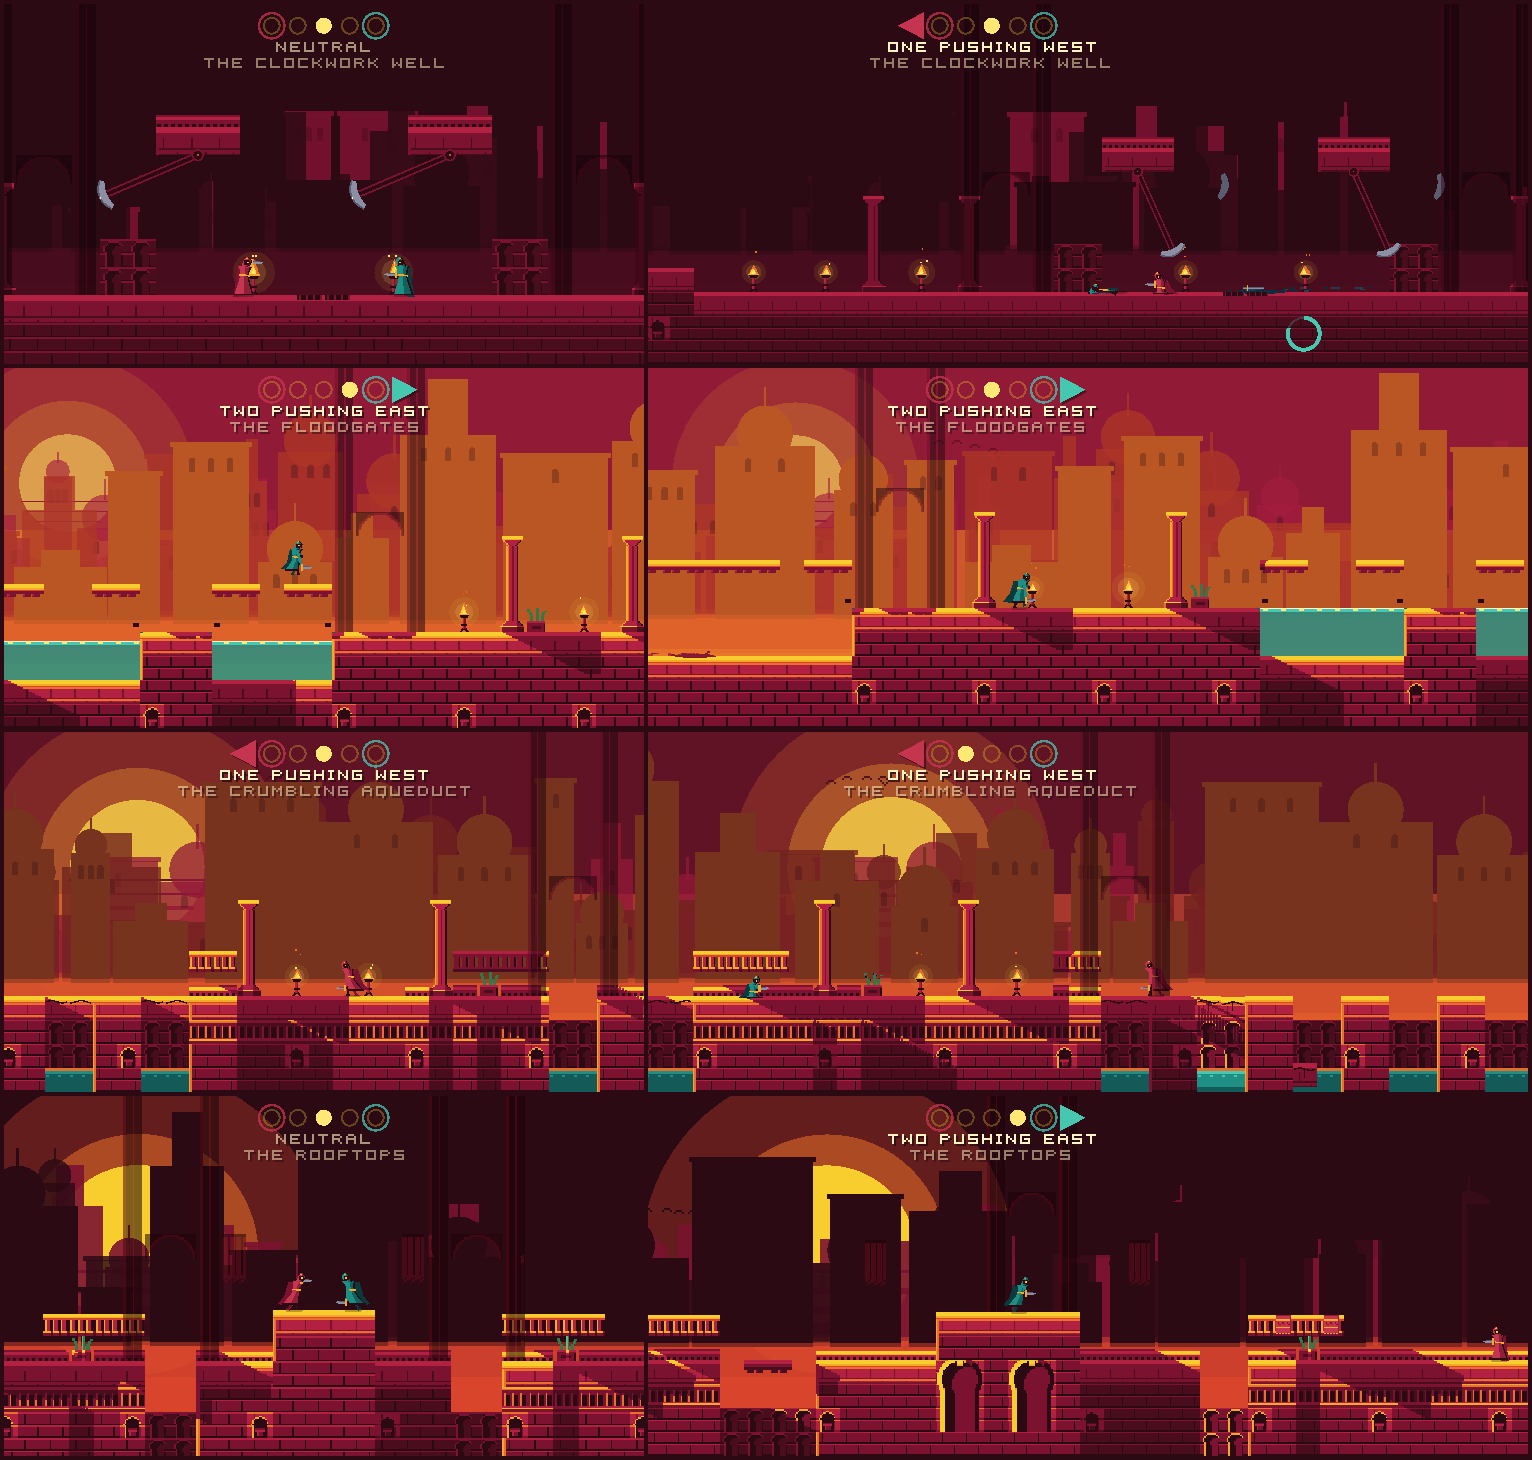
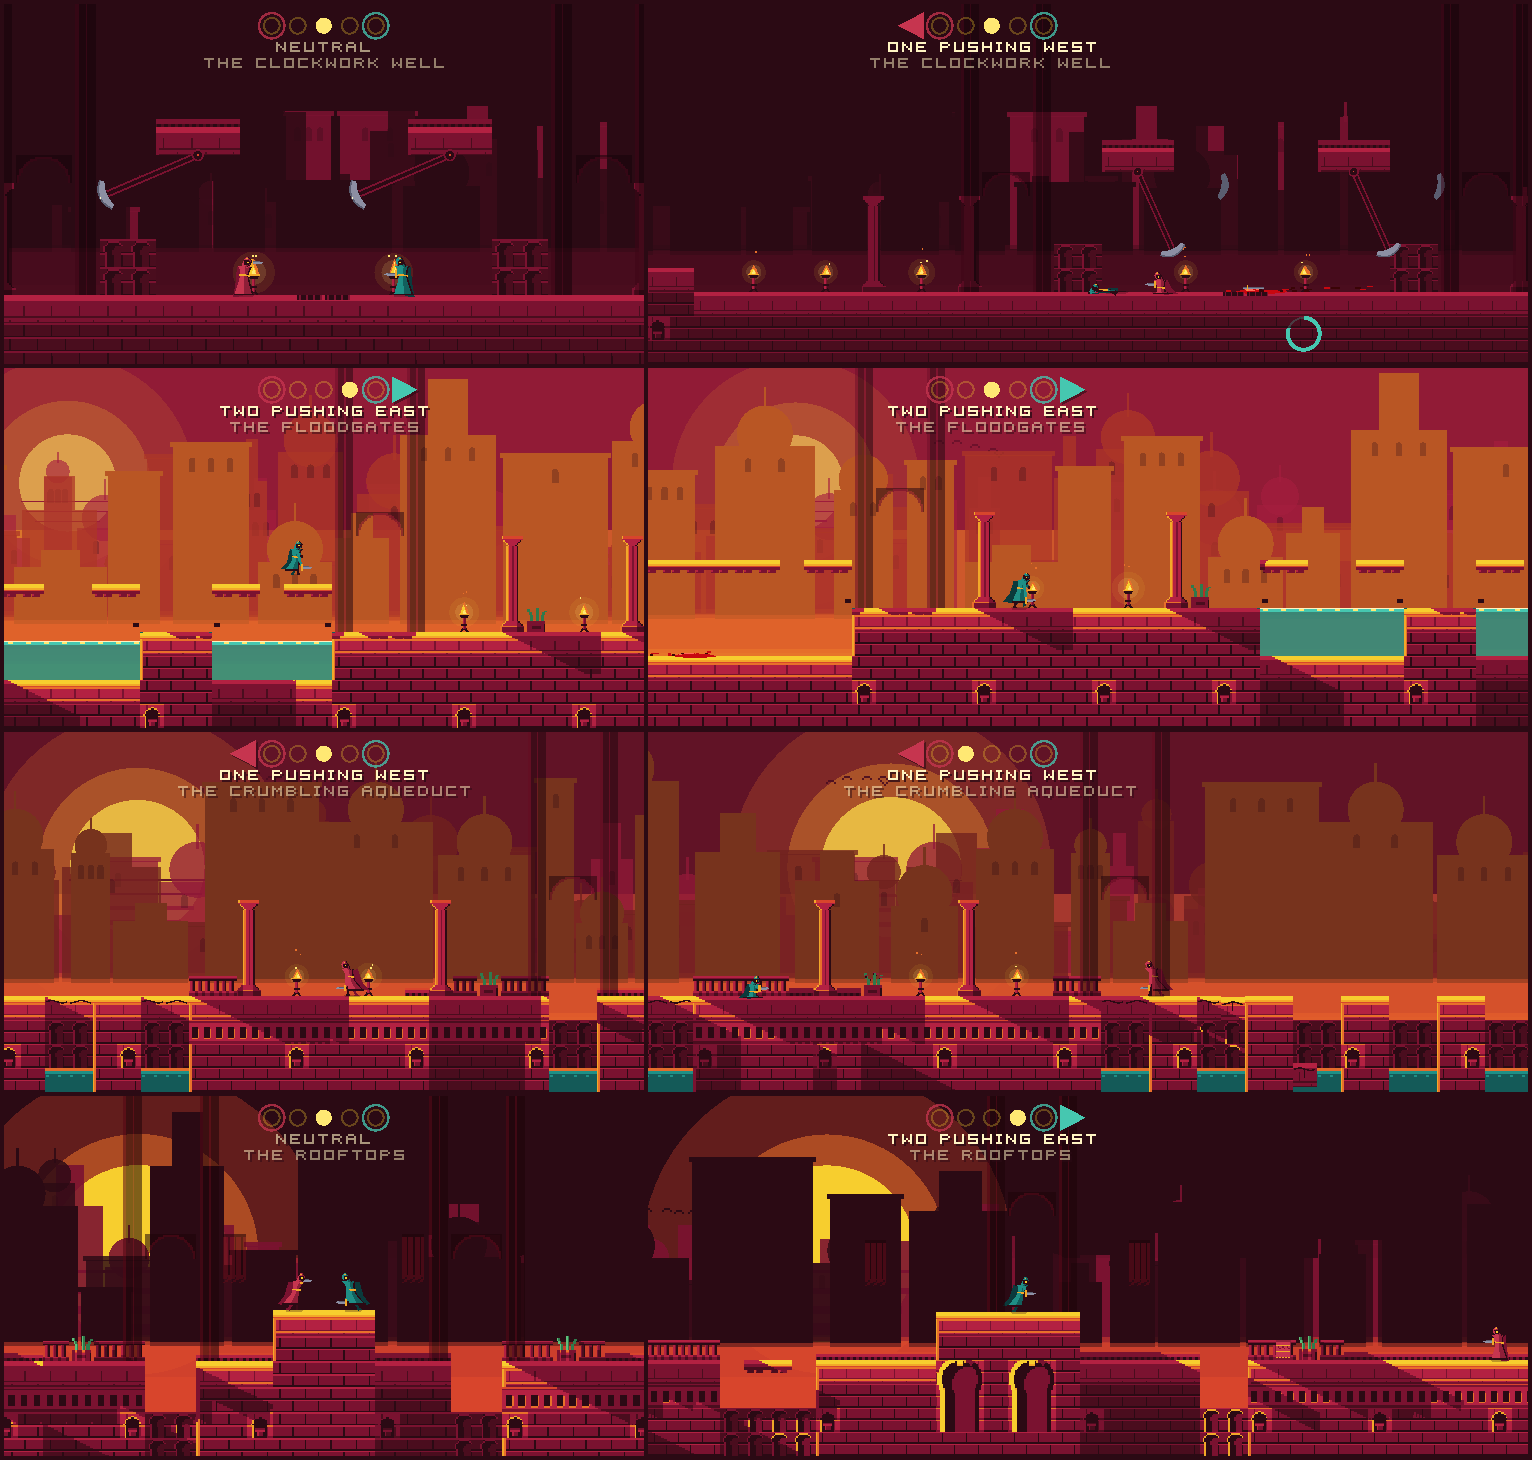
Re-render the strips sheet on main and record what the strips measure
docs/duel-strips.png is drawn again on main's blood ramp and decor rules.
docs/duel-match.md gains the netplay numbers per link, the stone-less
snapshot the test was seen to fail on, the cross-talk two matches in one
physics space produce on the Aqueduct, the computer's numbers as the suite
plays them, and what is still open about the strips.

Claude-Session: https://claude.ai/code/session_01CS5kLXfHzuqFJNCkKoEvRT

diff --git a/docs/duel-match.md b/docs/duel-match.md
@@ -196,6 +196,25 @@ presentable event (`stone`), so a slab's fall rings its dust and sound once,
 and what the floor looks like is read from the state, never from the beat --
 the rope's rule from "Corrected outcomes".
 
+Measured by `tests/unit/test_duel_strip_net.gd`, a host and a client on every
+strip for 720 frames, each in a physics world of its own:
+
+| Link | Verified snapshots (each strip) | Corrections | Desyncs |
+| --- | --- | --- | --- |
+| clean | 359 | 301 to 304 | 0 on every strip |
+| laggy (6 ± 2 frames) | 359 | 323 | 0 on every strip |
+| lossy (3 ± 1, 15% of snapshots dropped) | 295 | 266 | 0 on every strip |
+
+and each gimmick is rewound to a snapshot just before it acts -- a cut begins,
+the water moves, a slab falls -- and replayed for 120 to 200 frames with every
+byte of every frame equal. With the stones left out of the snapshot the
+Aqueduct desynced 94 times on the clean link and its replay parted on all 160
+frames; the test was seen to fail so. Two matches in one physics space are not
+two devices: built in one space, as `tests/match_net_test.gd` builds the Tug of
+War's, the Aqueduct's laggy run parted by 1.2e-4 px beside a slab -- the
+engine's float noise, across a 1/256 quantum, from the other match's ground
+and slabs overlapping its own -- which in separate spaces it never does.
+
 ### Told before it kills
 
 Every hazard is told at least **27 frames** ahead -- the adventure's one
@@ -247,21 +266,45 @@ enough, and otherwise goes to the nearer safe footing (`DuelFeet.refuge()`).
 A wall too tall to hop from a standstill -- a chimney -- is backed off from for a
 run-up. The blunder knob does not reach any of it.
 
-Computer against computer, each level against itself, six-minute limit,
-three seeds a level unless said:
+Computer against computer, each level against itself, as the suite plays it
+(two seeds a level, a six-minute limit): deaths to the ground of all deaths,
+and the longest match in frames. Every match finished.
 
 | Strip | EASY | MEDIUM | HARD |
 | --- | --- | --- | --- |
-| Clockwork Well (8 seeds) | 8 of 8 finish, mean 1,809 frames; 0 of 16 deaths to hazards | 8 of 8, mean 6,893, longest 12,402; 3 of 93 | 8 of 8, mean 2,357; 1 of 26 |
-| Floodgates | 3 of 3, mean 935; 0 of 4 | 3 of 3, mean 2,878; 0 of 15 | 3 of 3, mean 1,459; 0 of 8 |
-| Aqueduct | 3 of 3, mean 939; 0 of 3 | 3 of 3, mean 1,194; 0 of 5 | 3 of 3, mean 1,787; 0 of 10 |
-| Rooftops | 3 of 3, mean 1,392; 0 of 4 | 3 of 3, mean 1,569; 0 of 7 | 3 of 3, mean 1,866; 0 of 8 |
+| Clockwork Well | 0 of 3; 2,410 | 1 of 30; 12,402 | 0 of 6; 2,102 |
+| Floodgates | 0 of 2; 940 | 0 of 10; 3,957 | 0 of 7; 1,743 |
+| Aqueduct | 0 of 2; 941 | 0 of 2; 901 | 0 of 9; 2,695 |
+| Rooftops | 0 of 3; 2,153 | 0 of 4; 1,925 | 0 of 3; 1,848 |
+
+Eight seeds a level on the Well, measured while tuning: every match finished;
+EASY died to the ground 0 times in 16 deaths, MEDIUM 3 in 93, HARD 1 in 26.
 
 `tests/unit/test_duel_strip_cpu.gd` holds every pairing on every strip to an end
 inside six minutes, HARD to one hazard death in twenty and every level to one in
 eight. The Well's evenly matched MEDIUM pairs are the long ones: the rope goes
 back and forth for up to three and a half minutes, because a runner home waits
 for the beat and the chaser catches up while it does.
+
+### Open
+
+- **Judged on renders, not on a phone.** The Well at night is the darkest
+  strip; its blades, torches and fighters are lifted out of the dark
+  (`MatchDusk.LIT`), but whether the slots' tell reads at arm's length on a
+  phone wants a phone.
+- **The computer survives the strips; it does not use them.** It waits for
+  the beat, keeps off a filling court and steps off a burning slab, but never
+  times a thrust to a scythe, lures anyone onto cracked stone or holds the
+  stones against a runner while the tide is in. A person who learns the
+  strip will out-think it there.
+- **The Tug of War's own netplay test still builds both peers in one physics
+  space.** It passes, and the stones that showed the cross-talk are not on
+  it; moving it to a world per peer, as the strips' test does, is a one-line
+  change worth making.
+- **No LONGER WARNINGS in a duel.** The assist stretches the campaign's tells;
+  a duel's are frames both phones must agree on, so it does not reach them.
+- **A strip is five zones.** The catalogue and the rules allow three to five;
+  every strip uses five, and a shorter strip -- a faster match -- is untried.
 
 ## The camera
 
